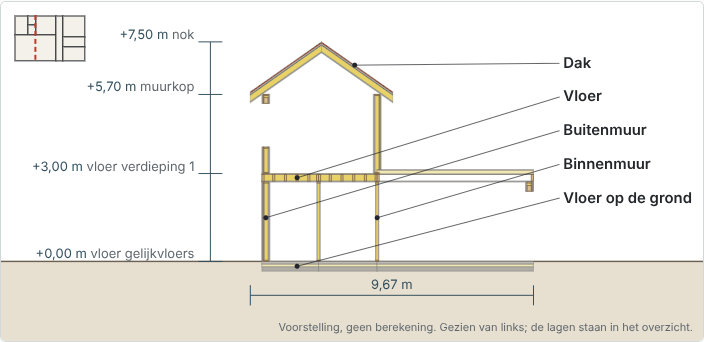
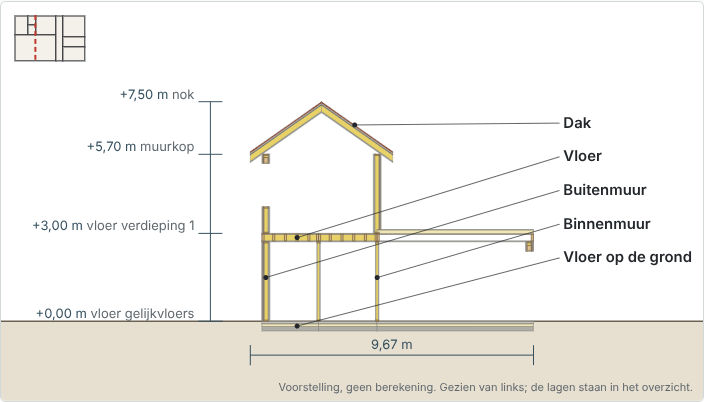
Bouw: doorsnede leesbaarder, tabellen van het overzicht op een tablet
De maten van de doorsnede komen niet meer onder het kleine plan; muurkop en
nok alleen als de snede het hellende dak raakt. De tabellen van EPB en
stabiliteit breken af op een smal scherm; de koppen tonen op een
aanraakscherm een pijltje.

Claude-Session: https://claude.ai/code/session_01PczewFp9M8BS44vqTSpk6u

diff --git a/packages/core/src/doorsnede.ts b/packages/core/src/doorsnede.ts
@@ -158,6 +158,7 @@ export function tekenDoorsnede(plan: Plattegrond, cat: PlanCatalogus, keuze: Doo
   };
 
   // ---------- hellend dak ----------
+  let hellendGeraakt = false;
   const dakSnede = (d: ConstructieDeel) => {
     const dv = d.dakvlak!, dak = dv.dak, v = d.deel.vlak!;
     const tan = Math.tan((dak.helling * Math.PI) / 180), cos = Math.cos((dak.helling * Math.PI) / 180);
@@ -182,6 +183,7 @@ export function tekenDoorsnede(plan: Plattegrond, cat: PlanCatalogus, keuze: Doo
         vormen.push({ punten: [[pa, Y(t0) + a / cos], [pb, Y(t1) + a / cos], [pb, Y(t1) + b / cos], [pa, Y(t0) + b / cos]], kleur: k.kleur, soort: k.soort, naam: l.naam });
       }
       noemOp('Dak', pVan((t0 + t1) * 0.55), Y((t0 + t1) * 0.55) + d.deel.vlak!.dikte / cos, true);
+      hellendGeraakt = true;
       return;
     }
     // Evenwijdig met de nok: één plaats op de helling.
@@ -199,6 +201,7 @@ export function tekenDoorsnede(plan: Plattegrond, cat: PlanCatalogus, keuze: Doo
       }
     }
     noemOp('Dak', (q0 + q1) * 0.62, Y(t) + v.dikte / cos, true);
+    hellendGeraakt = true;
   };
 
   for (const d of c.delen) {
@@ -218,7 +221,8 @@ export function tekenDoorsnede(plan: Plattegrond, cat: PlanCatalogus, keuze: Doo
   // hoogtematen (± 250 beeldpunten) en rechts voor de namen (± 170).
   const px = Math.max(0.15, ((opties.breedtePx ?? 900) - 420) / Math.max(100, breed));
   const tekst = 13 / px, lijn = 1 / px;
-  const links = uMin - 250 / px, rechts = uMax + 170 / px, boven = hMax + 40 / px, onder = Math.min(hMin, 0) - 70 / px;
+  // Boven plaats voor het kleine plan linksboven (± 85 beeldpunten), zodat het geen maat bedekt.
+  const links = uMin - 250 / px, rechts = uMax + 170 / px, boven = hMax + 100 / px, onder = Math.min(hMin, 0) - 70 / px;
   const X = (u: number) => r1(u - links), Yv = (h: number) => r1(boven - h);
   const W = r1(rechts - links), H = r1(boven - onder);
   const uit: string[] = [];
@@ -237,9 +241,11 @@ export function tekenDoorsnede(plan: Plattegrond, cat: PlanCatalogus, keuze: Doo
   // Maten: de hoogtes links (vloerpeil per verdieping, de bovenkant van de muren, de nok of de bovenkant van het dak).
   const hoogtes = new Map<number, string>();
   for (const [n, v] of verdiepingenVan(plan).entries()) if (niveauPlan(plan, n).ruimtes.length) hoogtes.set(r1(vloerHoogte(plan, n)), `vloer ${v.naam.toLowerCase()}`);
-  const muurTop = c.hellend?.y ?? Math.max(...c.delen.filter((d) => d.muur).map((d) => d.zet.y + d.muur!.hoogte));
-  hoogtes.set(r1(muurTop), c.hellend ? 'muurkop' : 'bovenkant muur');
-  hoogtes.set(r1(hMax), c.hellend ? 'nok' : 'bovenkant dak');
+  // De muurkop en de nok alleen als de snede het hellende dak raakt; anders de bovenkant van wat ze raakt.
+  const metHellend = hellendGeraakt;
+  const muurTop = metHellend ? c.hellend!.y : undefined;
+  if (muurTop !== undefined && muurTop < hMax - 1) hoogtes.set(r1(muurTop), 'muurkop');
+  hoogtes.set(r1(hMax), metHellend ? (c.hellend!.dak.nokAs === 'x') === (richting === 'dwars') ? 'nok' : 'bovenkant dak' : 'bovenkant dak');
   const mx = X(uMin) - 40 / px;
   const lijst = [...hoogtes].sort((a, b) => a[0] - b[0]);
   uit.push(`<line x1="${r1(mx)}" y1="${Yv(lijst[0]![0])}" x2="${r1(mx)}" y2="${Yv(lijst[lijst.length - 1]![0])}" stroke="#34505f" stroke-width="${r1(lijn)}"/>`);

diff --git a/packages/bouw-web/src/index.html b/packages/bouw-web/src/index.html
@@ -726,8 +726,10 @@ details.constructiedeel > summary { display: flex; flex-wrap: wrap; gap: 4px 12p
 .constructieinhoud { padding: 4px 0 8px; }
 .voorbehoud { background: color-mix(in srgb, var(--let-op) 12%, transparent); border-left: 3px solid var(--let-op); padding: 6px 10px; font-size: .9rem; border-radius: 4px; }
 table.meetstaat tr.groep th { text-align: left; padding-top: 10px; font: inherit; font-weight: 600; }
-table.stabiliteit td { vertical-align: top; }
-table.stabiliteit td:last-child { min-width: 14em; }
+table.stabiliteit td, table.epb td, table.meetstaat td { white-space: normal; vertical-align: top; }
+table.stabiliteit td:last-child { min-width: 12em; }
+table.epb .status, table.stabiliteit .status { white-space: nowrap; display: inline-block; }
+table.meetstaat td.num { white-space: nowrap; }
 details.aannames { margin: 6px 0; }
 details.aannames ul { margin: 4px 0; padding-left: 20px; }
 .constructieinhoud h4 { margin: 12px 0 4px; }
@@ -738,6 +740,9 @@ details.aannames ul { margin: 4px 0; padding-left: 20px; }
 @media (pointer: coarse) {
   .opbouwrij select, details.opbouwkeuze > summary, details.opbouwlagen > summary, details.constructiedeel > summary, details.aannames > summary, .doorsnedebalk button, .doorsnedebalk input { min-height: 44px; }
   .doorsnedebalk button { min-width: 44px; }
+  /* Op een aanraakscherm is een kop een flexvak (zie hoger) en verdwijnt het pijltje: een eigen pijltje, zodat je ziet dat hij openklapt. */
+  details.opbouwkeuze > summary::before, details.opbouwlagen > summary::before, details.constructiedeel > summary::before, details.aannames > summary::before { content: '▸'; margin-right: 8px; }
+  details.opbouwkeuze[open] > summary::before, details.opbouwlagen[open] > summary::before, details.constructiedeel[open] > summary::before, details.aannames[open] > summary::before { content: '▾'; }
 }
 </style>
 </head>
